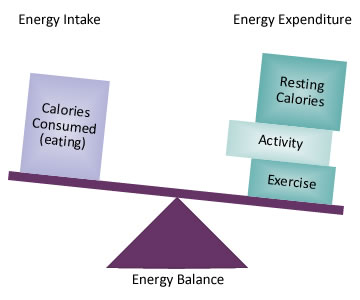
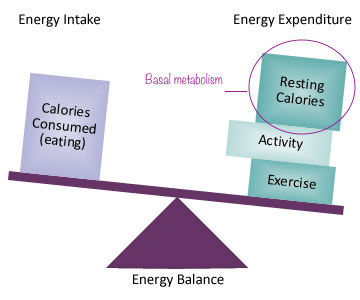
dec 18
18th dec

diff --git a/index.html b/index.html
@@ -46,13 +46,15 @@
 				</p>
 				<div class="start">
 					<p>Have you been wondering why your weight loss method does not work? Weight loss comes down to burning more calories than you take in. You can do that by reducing extra calories from food and beverages, and increasing calories burned through physical
-						activities. But a slow metabolism can make you still gain weight even you barely eat anything.</p>
-					<p>Now introduce you how metabolism affects your weight processes. </p>
+						activities. But a slow metabolism can make you still gain weight even you take good care of what you eat and doing exercises.</p>
+					<p>Now, introducing how metabolism affects your weight lose process. </p>
 					<button>Let's Get Started!</button>
+					<!-- <button onclick="window.location='#section1'">Let's Get Started!</button> -->
+					<!-- <input type="button" onclick="document.getElementById('section1').scrollIntoView();" /> -->
 				</div>
 			</div>
 		</div>
-
+		<!-- section1 -->
 		<div class="section" id="section1">
 			<video id="myVideo" loop controls data-autoplay>
 				<source src="imgs/lw.mp4" type="video/mp4">
@@ -62,17 +64,18 @@
 					<div class="vid-info">
 						<h1>Let's see some counterexample</h1>
 						<p>
-							You may have tried many weight loss methods, such as excessive dieting, aerobic and weight training, etc. These methods may help you losing a few pounds, but it never works for a long term…What role exactly does metabolism play in weight gain or weight
-							loss?</p>
+							You may have tried many weight loss methods, such as excessive dieting, aerobic and weight training, etc. These methods may help you lose a few pounds, but it never works for a long term… What role does metabolism play in weight loss?</p>
 						<!-- <button type="button" class="mute=video">Mute sound</button> -->
 						<a href="/500/Use-YouTube-Videos-as-Fullscreen-Web-Page-Backgrounds">Full article</a>
 						<div class="fb-like" data-href="https://www.columbia.edu/~dy2333" data-layout="button_count" data-action="like" data-size="small" data-show-faces="true" data-share="true"></div>
-						<iframe src="https://www.facebook.com/plugins/like.php?href=https%3A%2F%2Fwww.columbia.edu%2F~dy2333&width=106&layout=button_count&action=like&size=small&show_faces=true&share=true&height=46&appId" width="106" height="46" style="border:none;overflow:hidden" scrolling="no" frameborder="0" allowTransparency="true"></iframe>
+						<iframe src="https://www.facebook.com/plugins/like.php?href=https%3A%2F%2Fwww.columbia.edu%2F~dy2333&width=106&layout=button_count&action=like&size=small&show_faces=true&share=true&height=46&appId" width="106" height="46" style="border:none;overflow:hidden" scrolling="no" frameborder="0" allowtransparency="true"></iframe>
 					</div>
 
 				</div>
 			</div>
 		</div>
+
+	<!-- section 2 -->
 		<div class="section active" id="section2">
 			<div class="slide">
 				<div class="intro">
@@ -91,7 +94,11 @@
 					<div class="back">
 						<img src="imgs/negative.jpg" />
 						<h1>Weight Loss and Metabolism</h1>
-						<p>Easy to use. Configurable and customizable.</p>
+						<p>Body weight change is associated with an imbalance between the energy content of food eaten and energy expended by the body to maintain life and to perform physical work. Basal metabolic rate (BMR) is the largest component (50-80%) of the daily energy budget for most people, which is influenced by many factors including body size, age, gender, genetic predisposition and it is hard to be changed.</p>
+<p>One way to tilt the scale to the right is to eat small meals and eat healthy snack between meals. This method can help you keeps your metabolism humming, staves off hunger, and controls blood sugar.</p>
+<br>
+<p>What is wrong with excessive dealing? See the next slide.
+.</p>
 					</div>
 				</div>
 			</div>
@@ -100,7 +107,10 @@
 					<div class="back">
 						<img src="imgs/loseweight.gif" />
 						<h1>Metabloic Compensation</h1>
-						<p>It just looks cool. Impress everybody with a simple and modern web design!!!!!</p>
+						<p>While, if you eat too little, the body will tune into <strong>“starvation protection”</strong> mode, and your basal metabolism (resting metabolism) will decrease dramatically to conserve calories, store fat, and burn muscle (not fat) for energy and maintain energy balance and prevent starvation. This can cause you to stop losing weight, a </p>
+<br>
+<p>Remember the scale, if deduction happens on both side, you may not be able to lose weight.
+</p>
 					</div>
 				</div>
 			</div>
